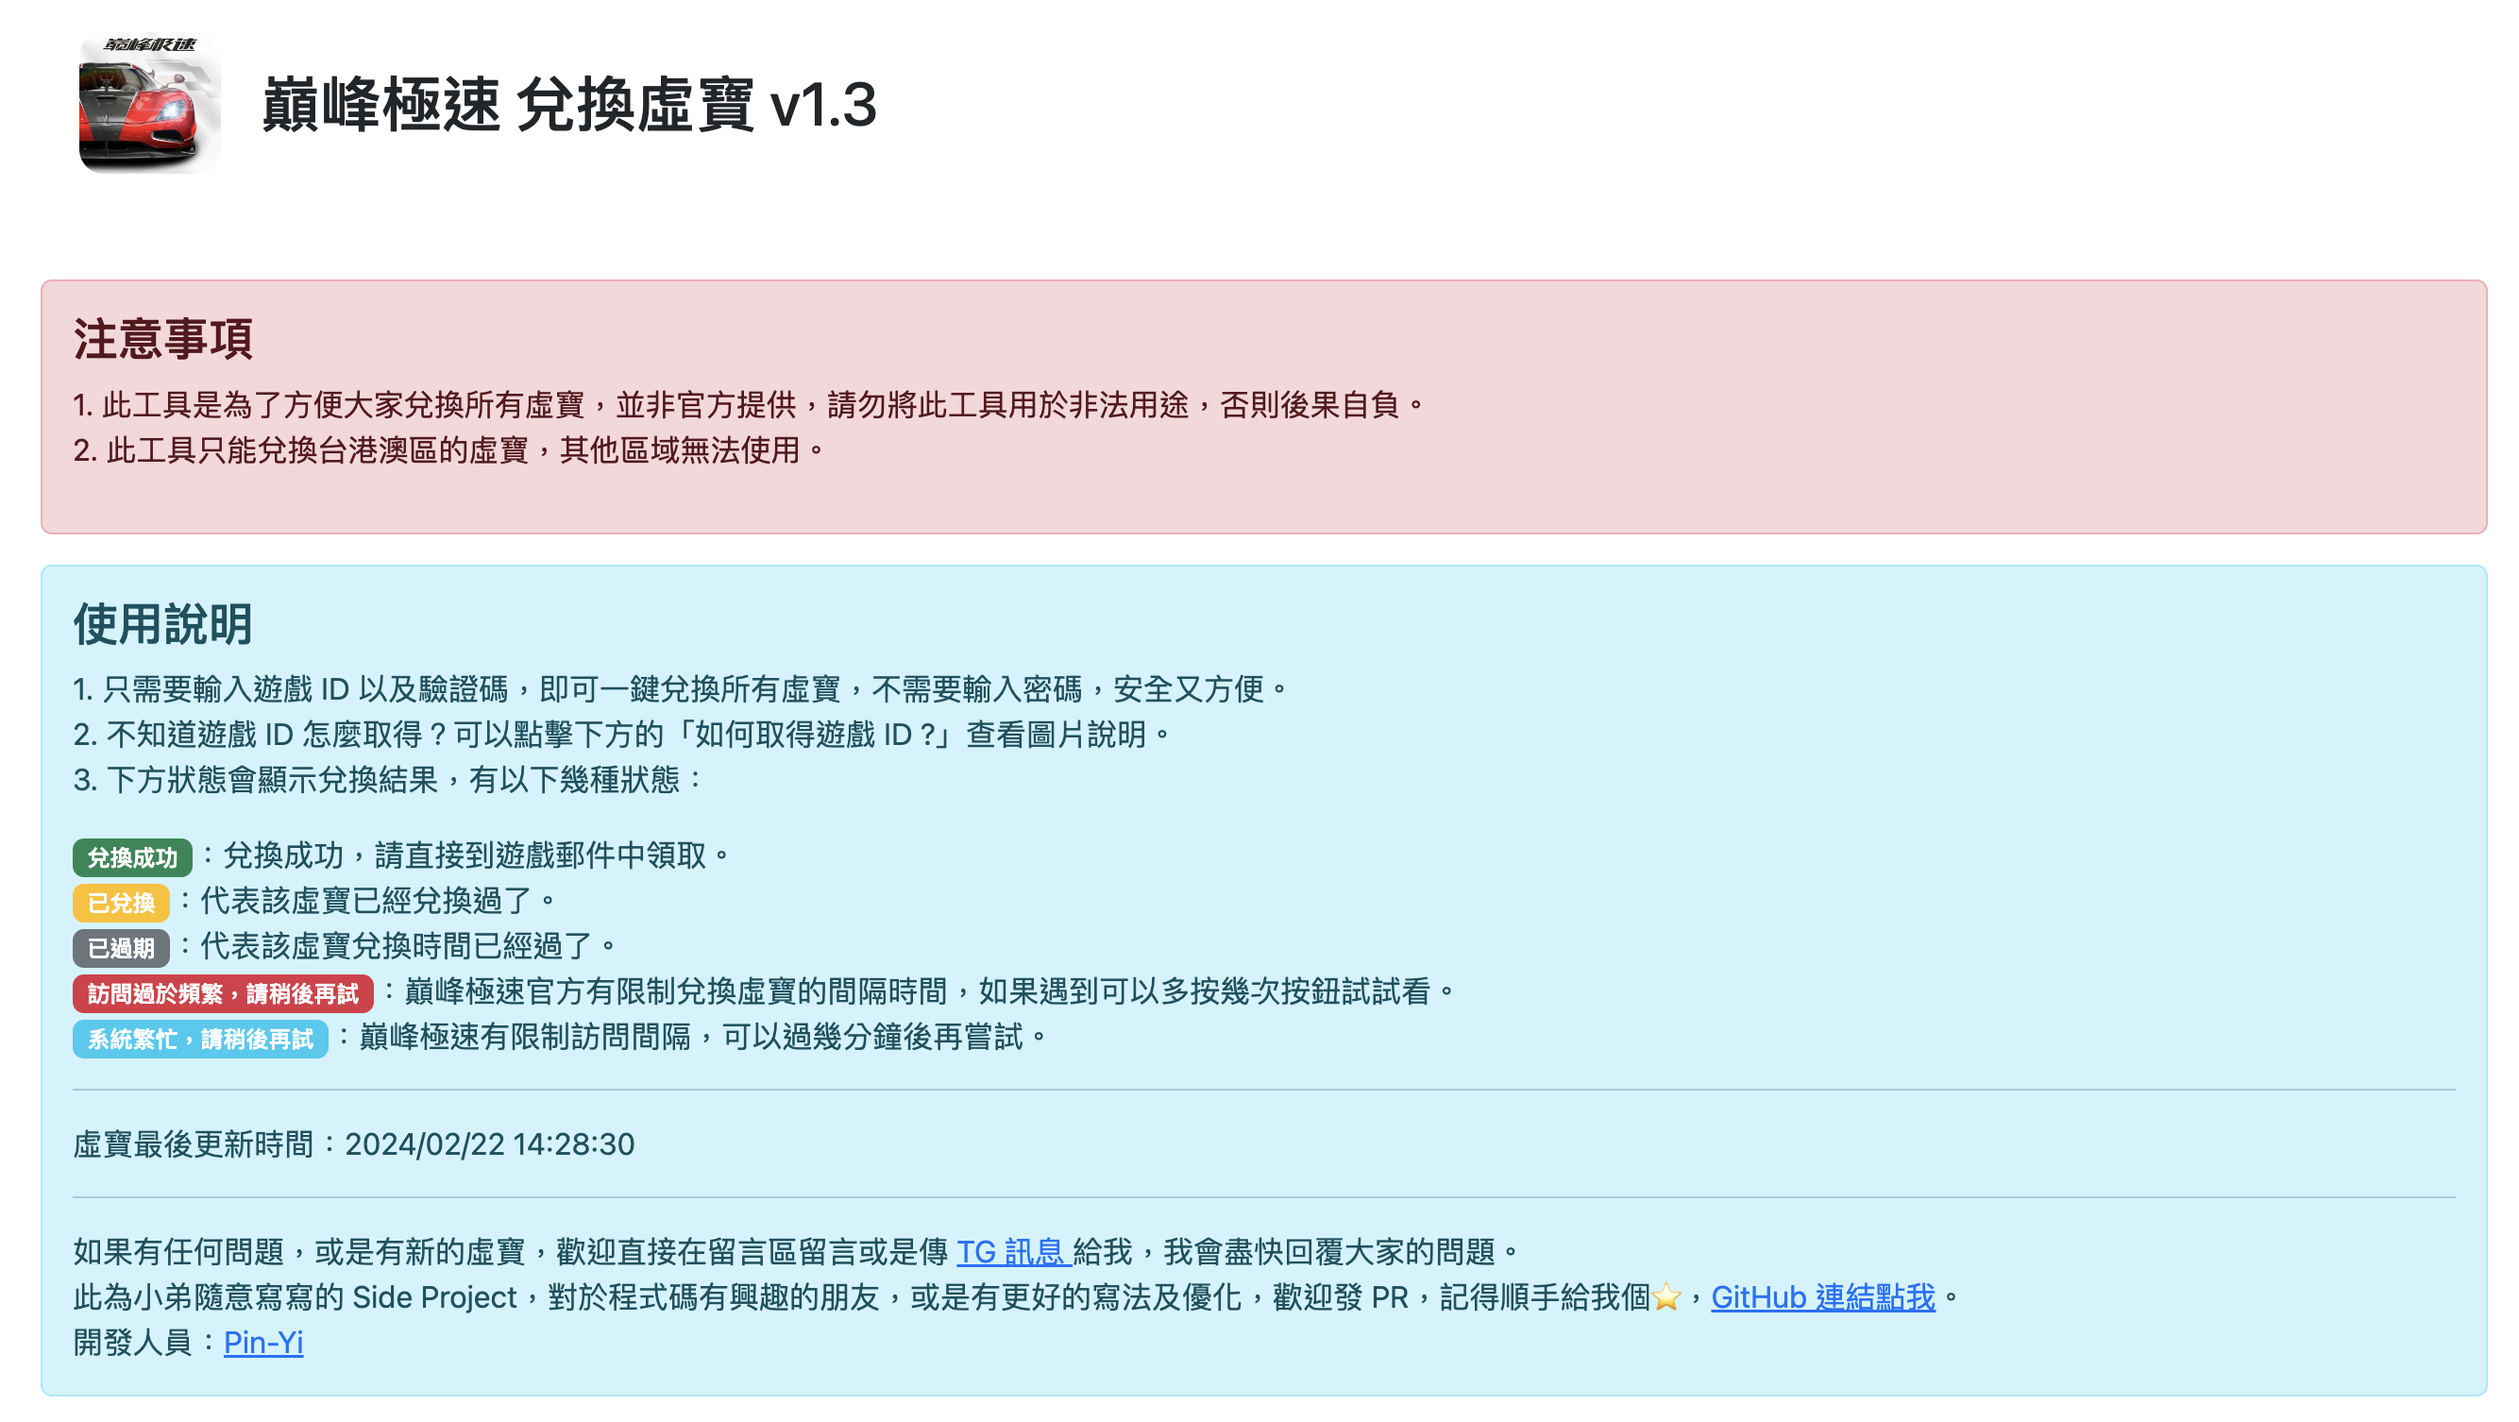
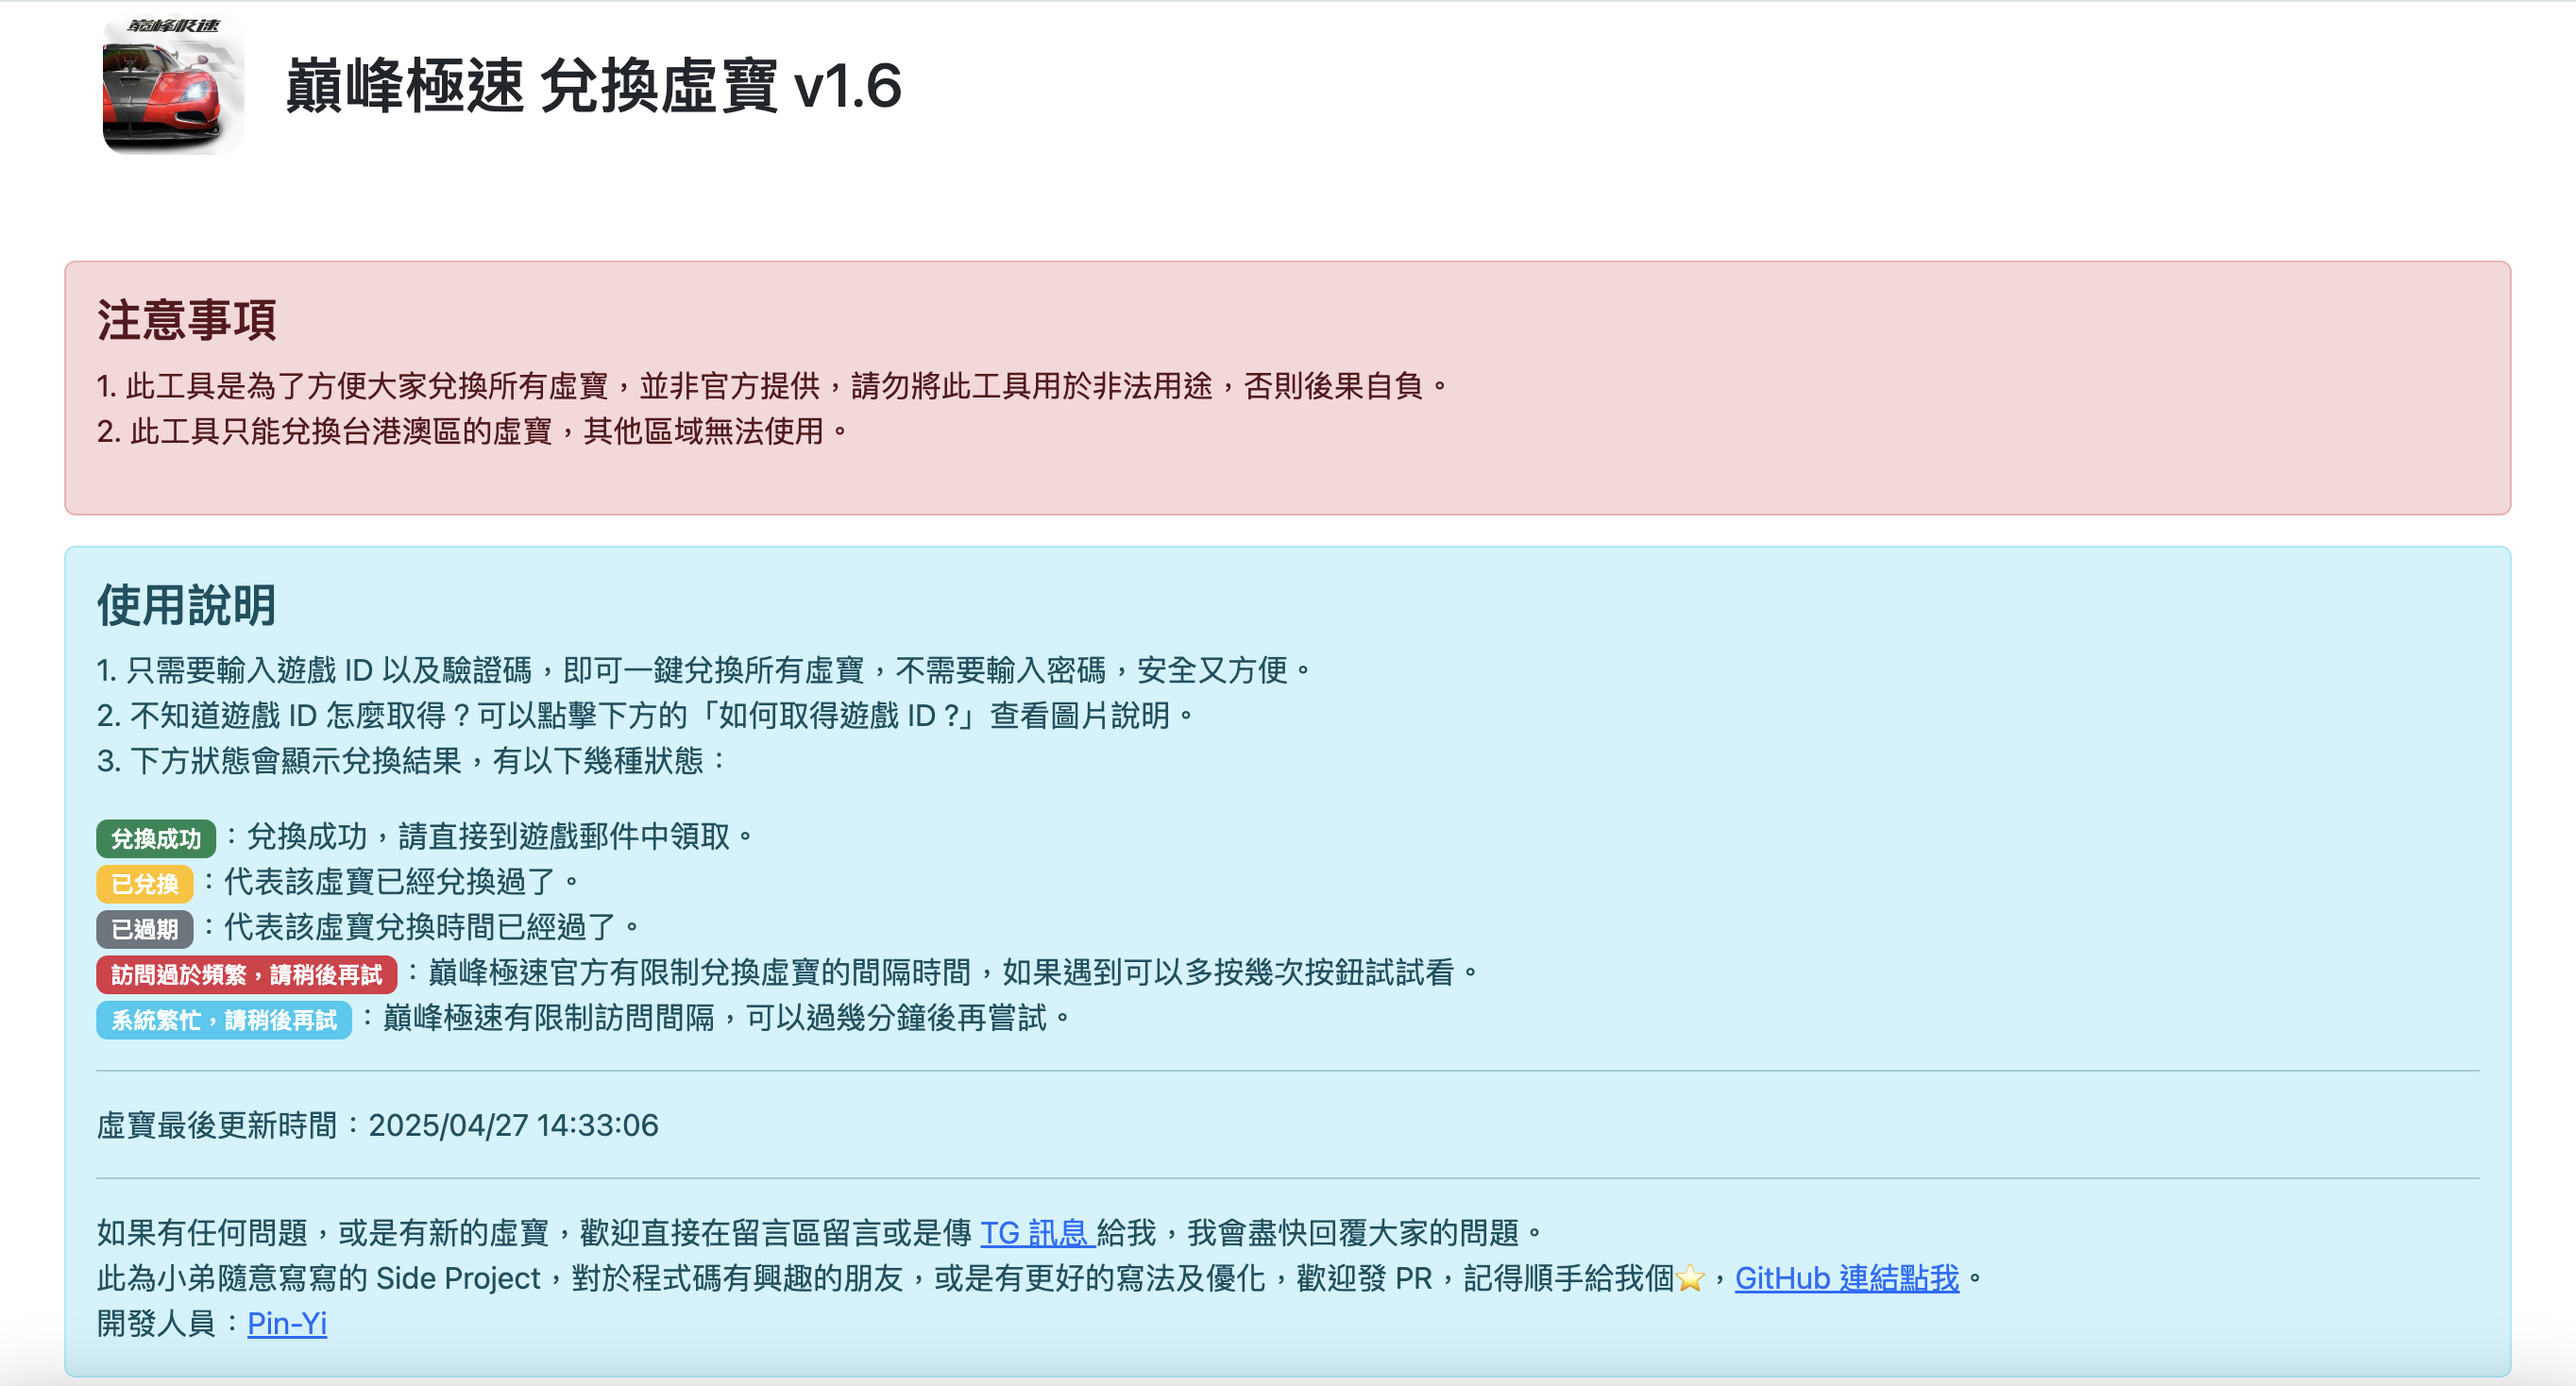
fix: 更新序號

Changed region(s): [[0.0, 0.1839, 0.9955, 1.0], [0.0311, 0.0, 0.3733, 0.1226]]

diff --git a/src/redeem.php b/src/redeem.php
@@ -4,27 +4,23 @@ header('Content-Type: application/json');
 
 $uid = $_GET['uid'];
 $codes = array( //虛寶
-    "VIP777",
-    "VIP888",
-    "TOP32",
-    "TOP32D2",
-    "ELITE16",
-    "MASTER8",
-    "RMFESTA",
-    "RMFESTA777",
-    "HELLO2025",
+    "yyjd6rw4hm",
+    "yy4ccdk8ch",
+    "yy74m64ecn",
+    "yyk4q7jkfe",
+    "yydpypfq68",
+    "yynn7wnner",
+    "yyh3jjjenf"
 );
 
 $context = array( //虛寶內容
-    "金幣*300、鑽石*88",
-    "基本性能改裝寶箱*1、鑽石*88",
-    "鑽石*58、金幣*188  (08/08 車手季 • 傳奇盃 32 強賽直播觀看獎勵)",
-    "鑽石*58、金幣*188  (08/09 車手季 • 傳奇盃 32 強賽直播觀看獎勵)",
-    "鑽石*58、金幣*188  (08/10 車手季 • 傳奇盃 16 強賽直播觀看獎勵)",
-    "鑽石*58、金幣*188  (08/11 車手季 • 傳奇盃 8 強賽直播觀看獎勵)",
-    "鑽石*58、金幣*188  (08/17 車手季 • 傳奇盃決賽直播觀看獎勵)",
-    "鑽石*58、金幣*188  (08/17 車手季 • 傳奇盃決賽直播觀看獎勵)",
-    "鑽石*88、頂級零件自選箱*1、金幣*2025、寶石鑰匙*1",
+    "寶石鑰匙*5",
+    "寶石鑰匙*1",
+    "寶石鑰匙*1、鑽石*150",
+    "寶石鑰匙*1、鑽石*150",
+    "寶石鑰匙*1、鑽石*150",
+    "寶石鑰匙*1",
+    "鑽石*300"
 );
 
 $results = array();

diff --git a/src/index.php b/src/index.php
@@ -21,7 +21,7 @@
       <figure class="figure">
         <img src="icon.webp" class="figure-img img-fluid rounded" width="75" height="75">
       </figure>
-      &nbsp; 巔峰極速 兌換虛寶 v1.5
+      &nbsp; 巔峰極速 兌換虛寶 v1.6
     </h2>
 
     <br>
@@ -51,7 +51,7 @@
       </p>
 
       <hr>
-      虛寶最後更新時間：2024/12/31 17:11:44
+      虛寶最後更新時間：2025/04/27 14:33:06
       <hr>
 
       <p class="mb-0">
